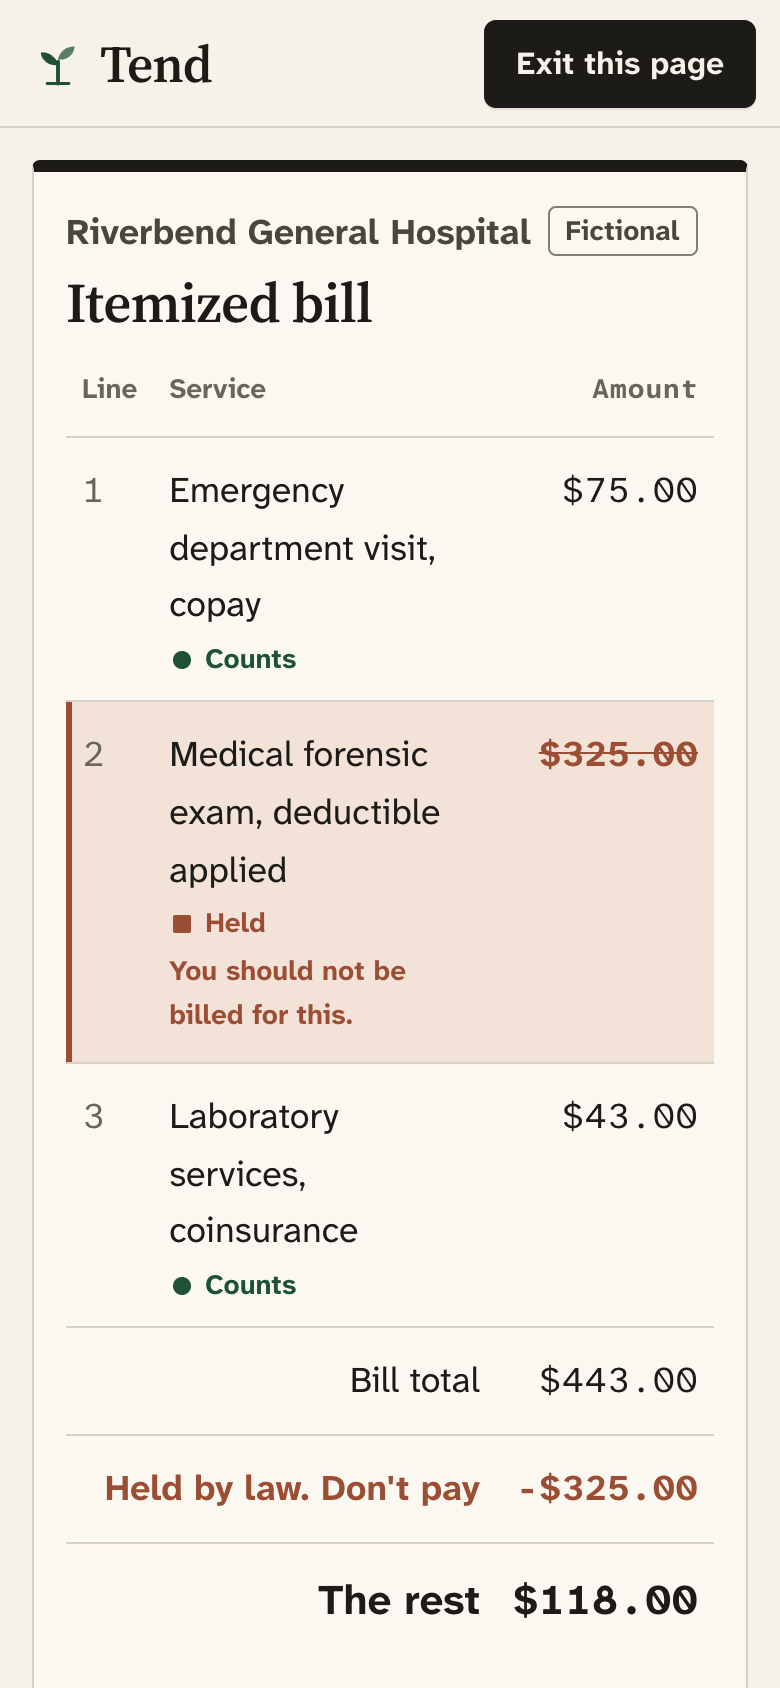
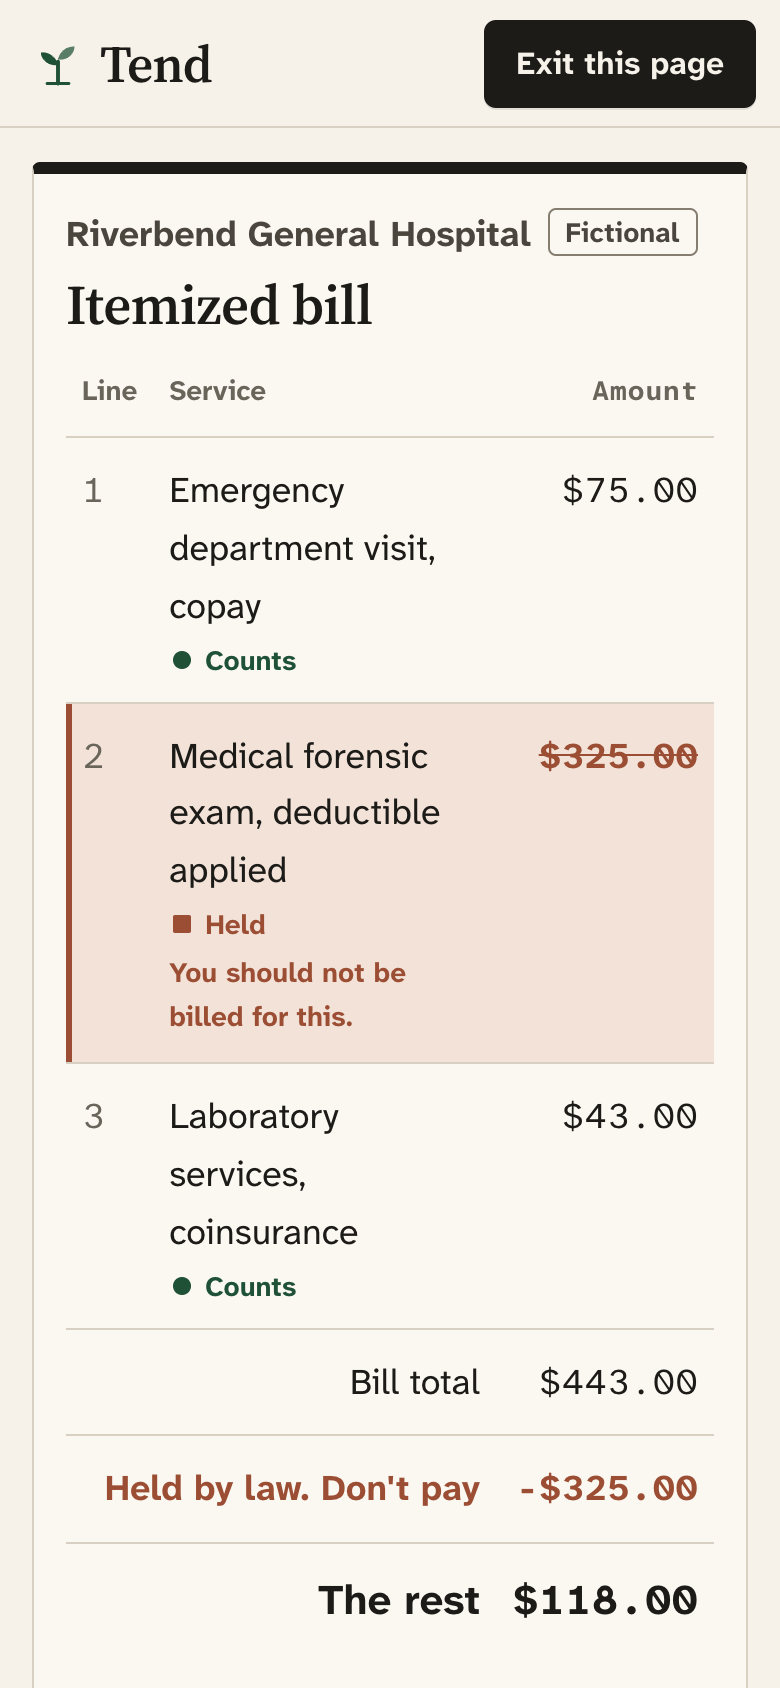
web: the press kit reads the demo's numbers from JUDGES.md, and its screenshots show the merged home page and privacy line
After the merges /press quoted $443.00 and $325.00, which left the README
for docs/JUDGES.md, so its number test failed; it now reads JUDGES.md
too. The site branch changed the home page's sentence and builder line,
and the flow branch made the demo's privacy line name the state's law
request, so the screenshot script expects that line and three frames
were retaken (the home page, the packet, and the phone bill). The home
page and link card alt text say what the images now show.

diff --git a/web/app/press/facts.ts b/web/app/press/facts.ts
@@ -1,7 +1,7 @@
 // The facts on /press and in its one-page fact sheet (public/press/tend-fact-sheet.pdf). Both read this
 // module, so the two cannot say different things: app/press/page.tsx renders it and
 // scripts/press-factsheet.ts prints it. Counts are read from the site's own files when it is built; every
-// other number is quoted from docs/SOURCES.md, docs/EVAL.md, docs/PRIVACY.md, or the README.
+// other number is quoted from docs/SOURCES.md, docs/EVAL.md, docs/PRIVACY.md, docs/JUDGES.md, or the README.
 // tests/press.test.tsx checks both, and tests/press-factsheet.test.ts that the PDF in public/press is what
 // these facts make today. It reads the file system, so only server components and scripts run from web/
 // may import it.
@@ -131,7 +131,7 @@ export function pressFacts(): PressFacts {
       {
         id: "device",
         text: `Each state's law runs in the browser, in an engine written in C++ and compiled to ${engineKb()} KB of WebAssembly. Bank statements and bills are read there too. Only a yes moves the law check to Tend's server, or bills and bank rows to cloud AI.`,
-        // docs/PRIVACY.md covers cloud AI but not the server law check; Design for safety covers both.
+        // Design for safety and docs/PRIVACY.md both cover cloud AI and the server law check.
         sources: [
           { label: "tend.wasm, the engine itself", href: ENGINE },
           { label: "Design for safety", href: "/how-it-works#safety" },

diff --git a/web/app/press/files.ts b/web/app/press/files.ts
@@ -53,7 +53,7 @@ export const LOGOS: Logo[] = [
 // The home page's link card at 1280 x 640, made by scripts/press-social.tsx.
 export const LINK_CARD = {
   file: "tend-social-1280x640.png",
-  alt: "Tend's link card: the logo, the sentence about claiming compensation without giving up a name, the address youreowed.tech, and a row of plant drawings from sprout to bloom.",
+  alt: "Tend's link card: the logo, the sentence about applying for crime victim compensation without giving Tend a name, the address youreowed.tech, and a row of plant drawings from sprout to bloom.",
 };
 
 export interface Shot {
@@ -73,7 +73,7 @@ export const SHOTS: Shot[] = [
     file: "tend-home-desktop.png",
     device: "desktop",
     caption: "The home page.",
-    alt: "Tend's home page in a desktop browser: the sentence about claiming crime victim compensation without giving up a name, buttons for the 2-minute tour and How it works, and the heading Every state has money set aside to pay survivors back.",
+    alt: "Tend's home page in a desktop browser: the sentence about applying for crime victim compensation without giving Tend a name, the line on who built it and the prize, buttons for the 2-minute tour and How it works, and the heading Every state has money set aside to pay survivors back.",
   },
   {
     file: "tend-demo-bill-held-desktop.png",

diff --git a/web/tests/press.test.tsx b/web/tests/press.test.tsx
@@ -87,7 +87,8 @@ describe("/press", () => {
   });
 
   it("quotes every number from the docs or counts it from the data", () => {
-    const docs = ["docs/SOURCES.md", "docs/EVAL.md", "docs/PRIVACY.md", "README.md"]
+    // The demo's numbers ($443.00, $325.00) live in docs/JUDGES.md, which holds the demo step by step.
+    const docs = ["docs/SOURCES.md", "docs/EVAL.md", "docs/PRIVACY.md", "docs/JUDGES.md", "README.md"]
       .map((f) => readFileSync(path.join(repo, f), "utf8"))
       .join("\n");
     const corpus = loadCorpus();
@@ -127,7 +128,7 @@ describe("/press", () => {
 
   it("says what can leave the device after a yes, and that the AI reads bills too", () => {
     // With a yes, the law check can run on Tend's server, and a bill or the bank rows Tend could not sort can
-    // go to cloud AI. docs/PRIVACY.md does not describe the server check; Design for safety does.
+    // go to cloud AI. Design for safety and docs/PRIVACY.md (item 5) both describe the server check.
     const device = kit.facts.find((f) => f.id === "device")!;
     expect(device.text).toContain("Tend's server");
     expect(device.text).toContain("cloud AI");

diff --git a/web/scripts/press-screenshots.py b/web/scripts/press-screenshots.py
@@ -6,8 +6,8 @@
 
 Each one shows a public page or the fictional demo (Rowan Hale, Riverbend General Hospital, made-up
 records). The script only clicks: it types nothing, so no screenshot can hold anything a person typed,
-and it stops if the privacy line says something left the device. app/press/files.ts lists the same
-files with their captions; keep the two in step.
+and it stops if the privacy line says anything left the device beyond the demo state's law request.
+app/press/files.ts lists the same files with their captions; keep the two in step.
 
 usage (from web/, after `npx next build`):
     uv run --python 3.12 scripts/press-screenshots.py              starts `next start` on port 3700, then stops it
@@ -36,7 +36,8 @@ OUT = WEB / "public" / "press" / "screenshots"
 
 DESKTOP = {"viewport": {"width": 1280, "height": 800}, "device_scale_factor": 2}
 PHONE = {"viewport": {"width": 390, "height": 844}, "device_scale_factor": 2, "is_mobile": True, "has_touch": True}
-QUIET = "On this device. Nothing has left it since this page opened."
+# The demo picks Michigan, and its law files are named for the state, so the line says that much went.
+QUIET = "On this device. Only the state you picked went to Tend's server, to get its law."
 HELD = "$325.00"
 # The itemized bill and, beside it on a wide screen, the held line's law.
 BILL = 'article[aria-labelledby^="bill-"]'
@@ -88,7 +89,7 @@ def settle(page: Page) -> None:
 
 
 def quiet(page: Page) -> None:
-    # Nothing a person could have entered has left the device, and nothing was sent at all.
+    # Beyond the state's law request, nothing a person could have entered has left the device.
     expect(page.locator("header [role=status]").first).to_have_text(QUIET)
 
 
